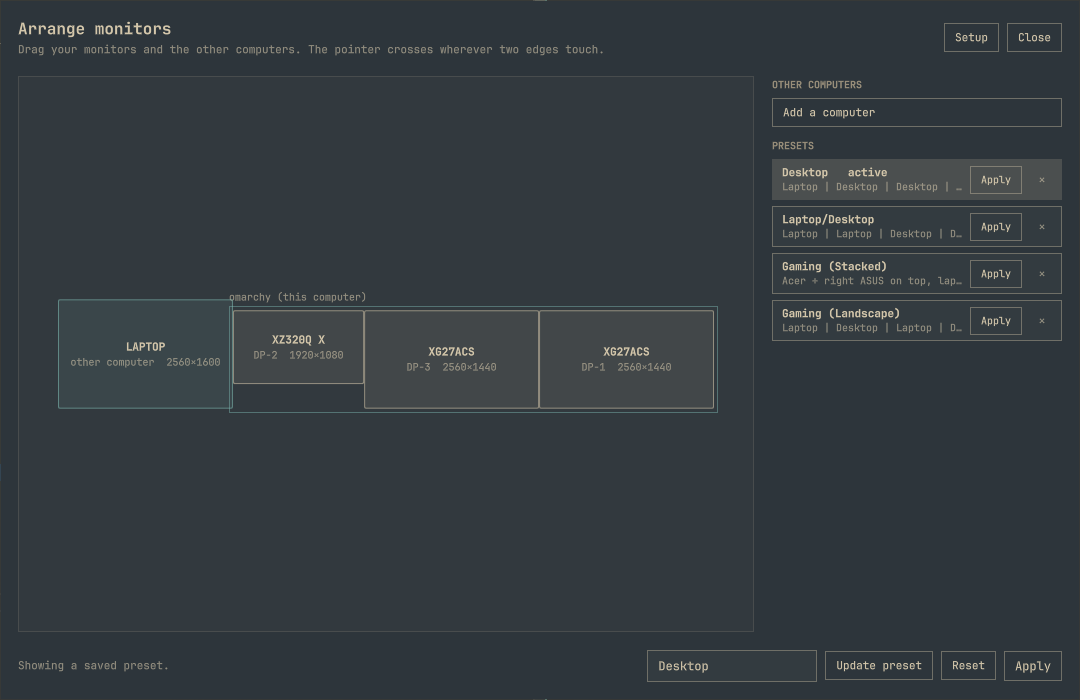
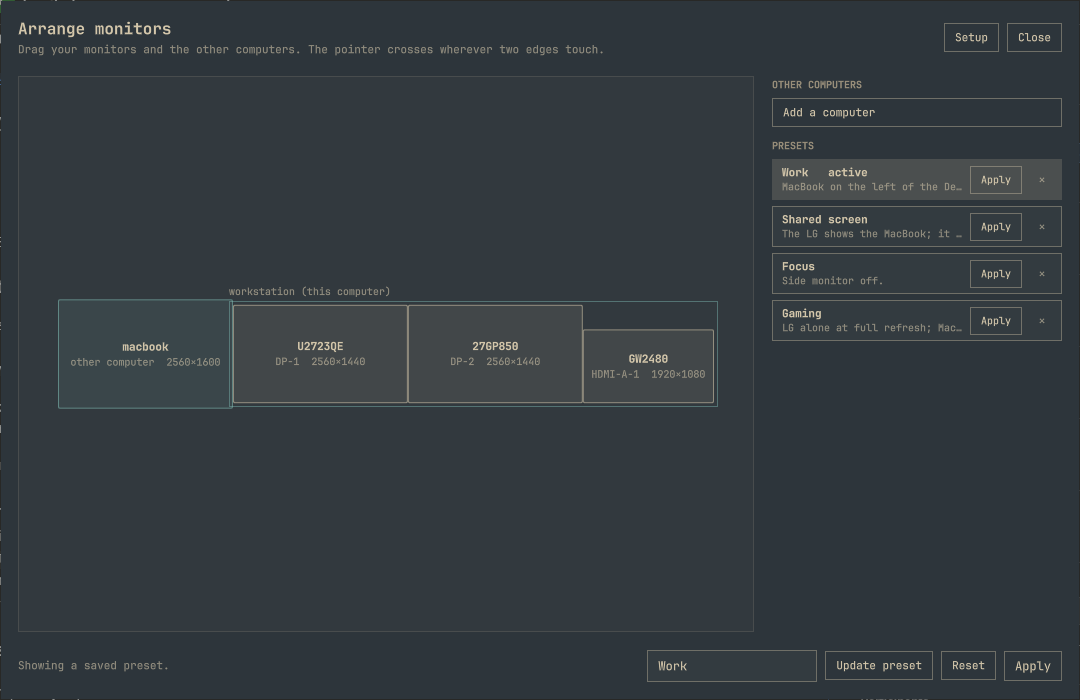
Screenshots with example data; preview uses them too

diff --git a/README.md b/README.md
@@ -8,6 +8,18 @@ Use your Omarchy PC's keyboard and mouse on your other computers (Windows, macOS
 - **Quiet notifications.** You get one notification when a computer connects or disconnects. If the same event repeats, that notification updates and counts up ("LAPTOP disconnected (3)") instead of stacking new ones.
 - **Optional monitor input switching.** If a monitor is cabled to both computers, a preset can switch its input over DDC/CI and take it out of this computer's layout.
 
+## Screenshots
+
+These use example data: computer names, addresses and monitors are made up.
+
+| Arrange monitors | A preset that hands a monitor to the other computer |
+|---|---|
+| ![Arrange monitors window with a MacBook left of three monitors](docs/layout.png) | ![The LG monitor shows the MacBook, which sits above the Dell](docs/layout-shared.png) |
+
+| Setup | Bar panel |
+|---|---|
+| ![Setup checklist with every step done](docs/setup.png) | ![Bar panel with presets, connected computers, address and fingerprint](docs/panel.png) |
+
 > **Omarchy is the server: the computer whose keyboard and mouse you use.** It can't be a client yet, so another computer can't control it. On Wayland, Deskflow's client moves the pointer through the desktop portal's RemoteDesktop interface. Hyprland's portal (`xdg-desktop-portal-hyprland`, 1.4.1 when this was written) doesn't provide that interface, so `deskflow-core client` stops with `No such interface "org.freedesktop.portal.RemoteDesktop"` and then crashes. Hyprland does provide the InputCapture interface, which the server needs, so server mode works. The plugin still offers the client role, but it won't start Deskflow as a client while that interface is missing, so it never crash-loops or fills your notifications. Setup shows the reason instead. When Hyprland adds RemoteDesktop support, client mode will work without changes. Progress: [Deskflow discussion #7499](https://github.com/deskflow/deskflow/discussions/7499).
 
 ## Install
